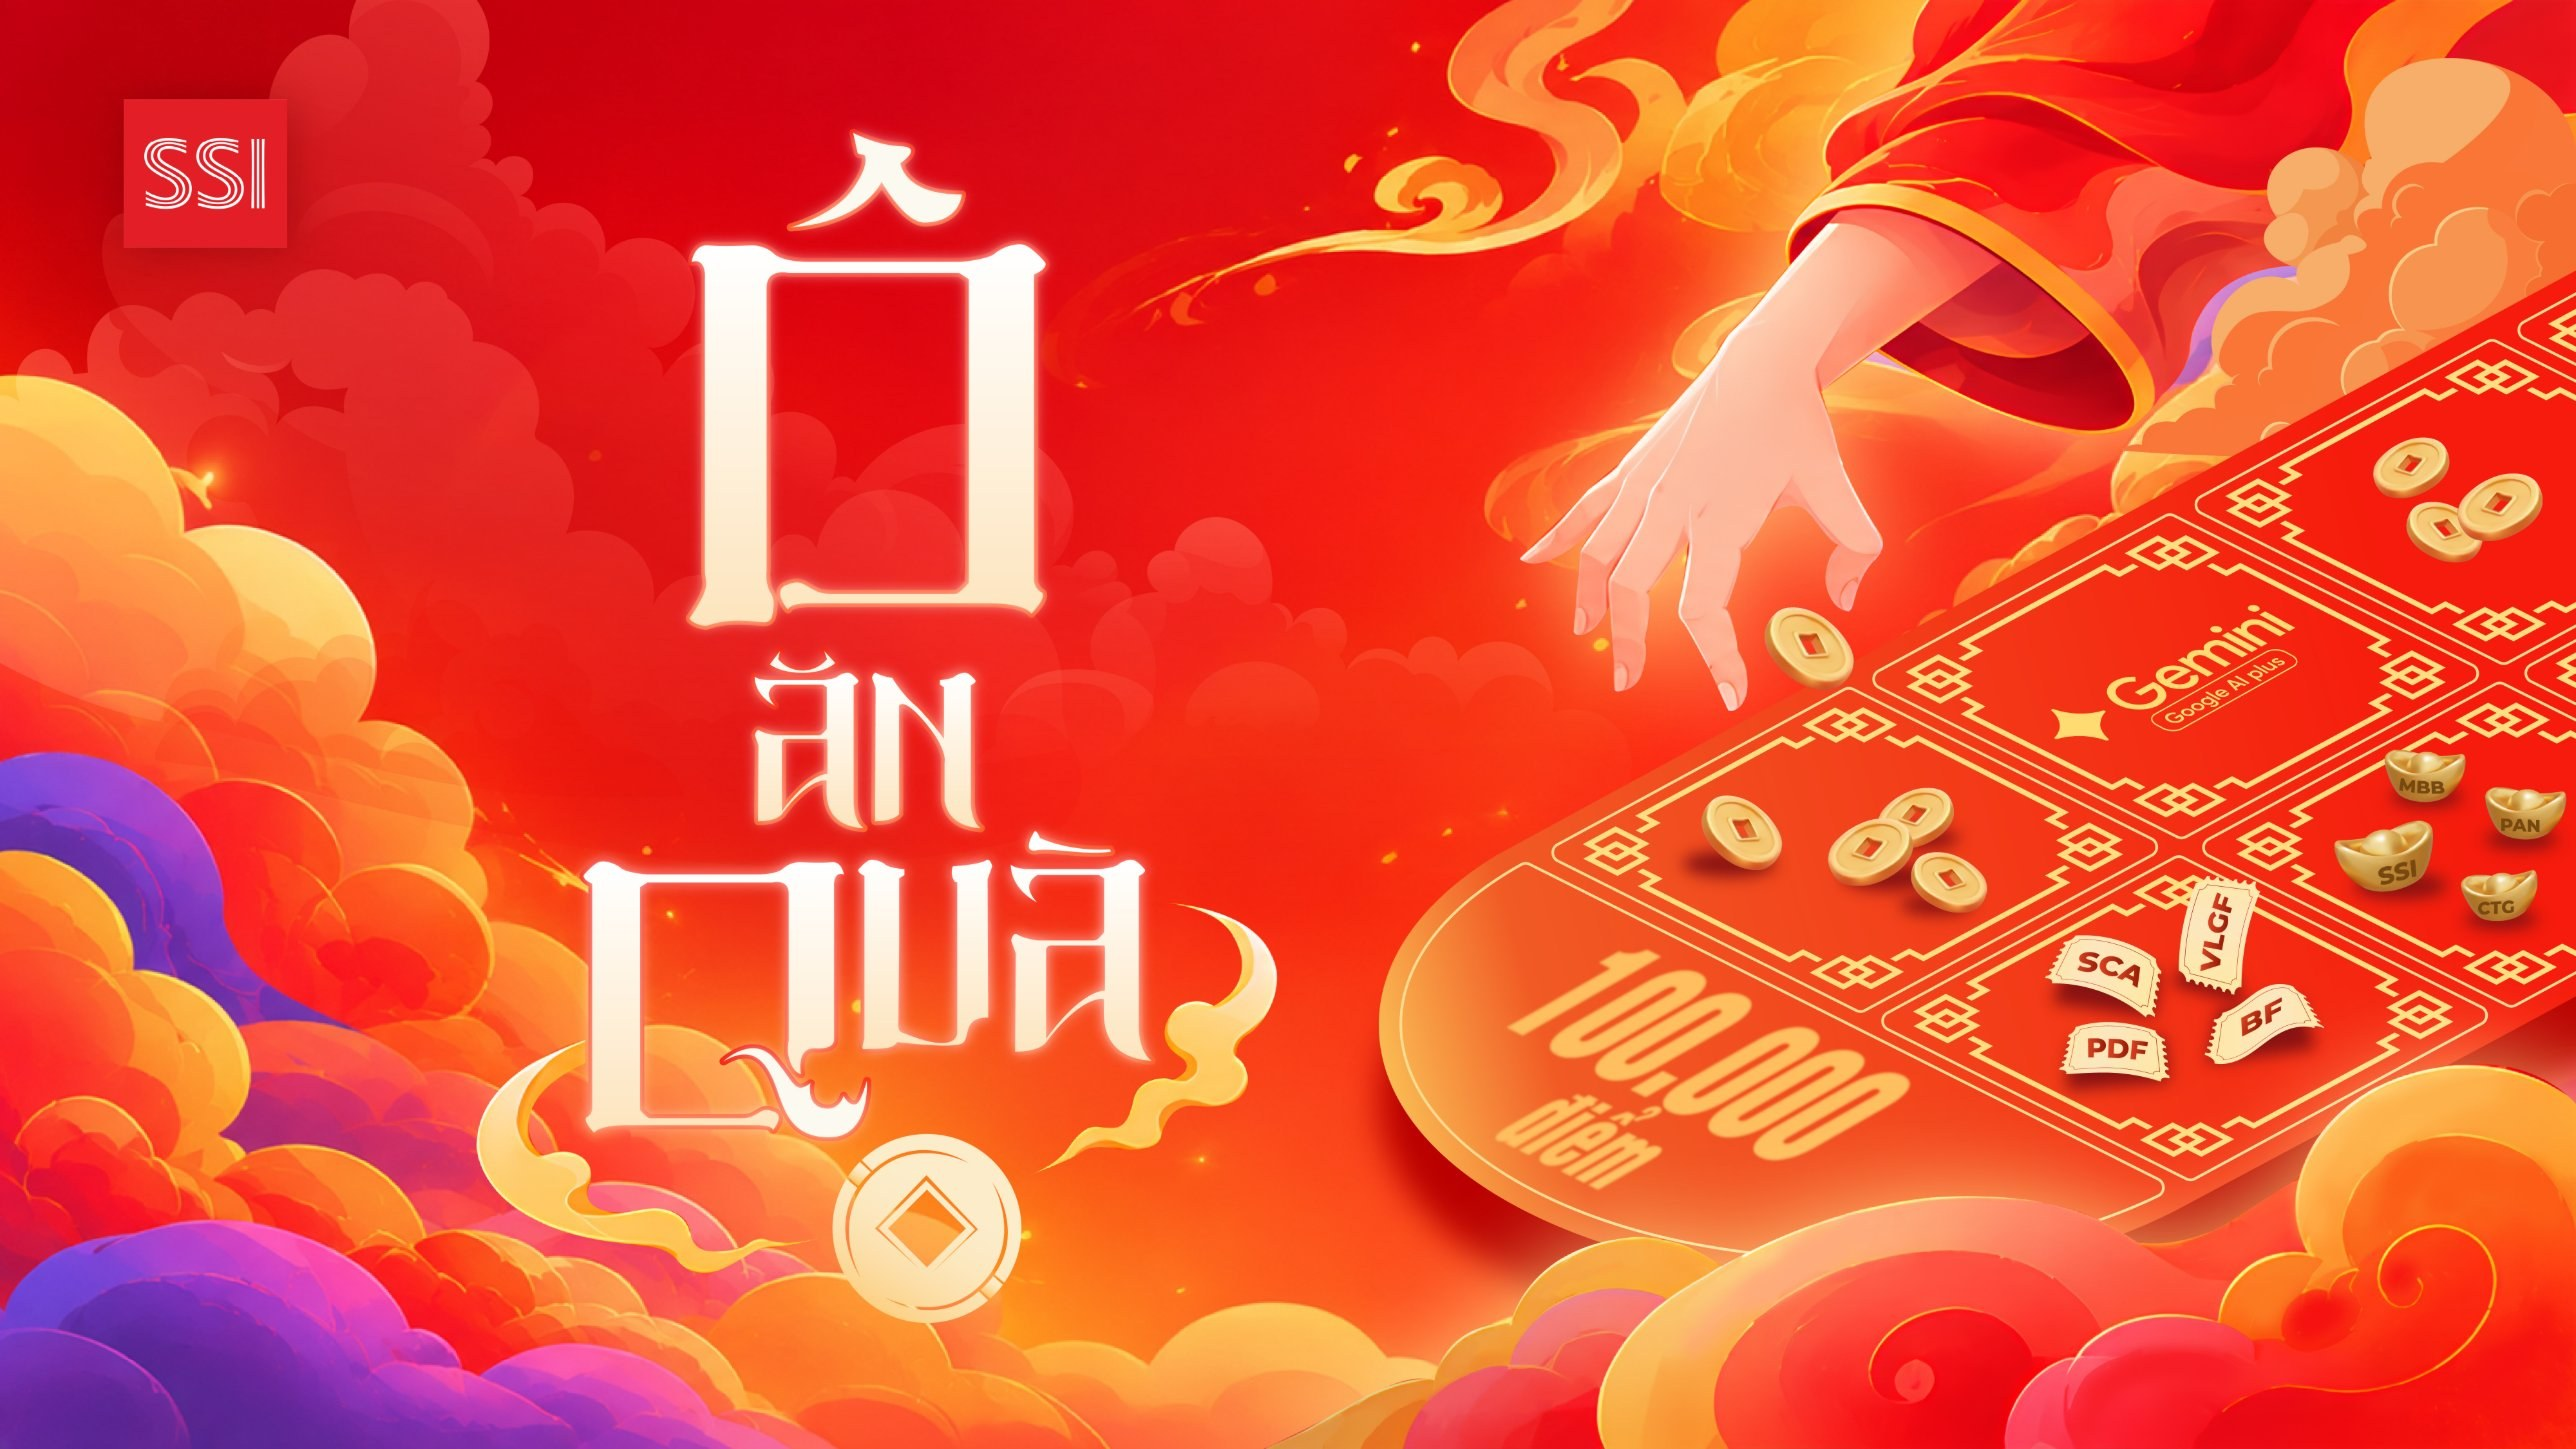
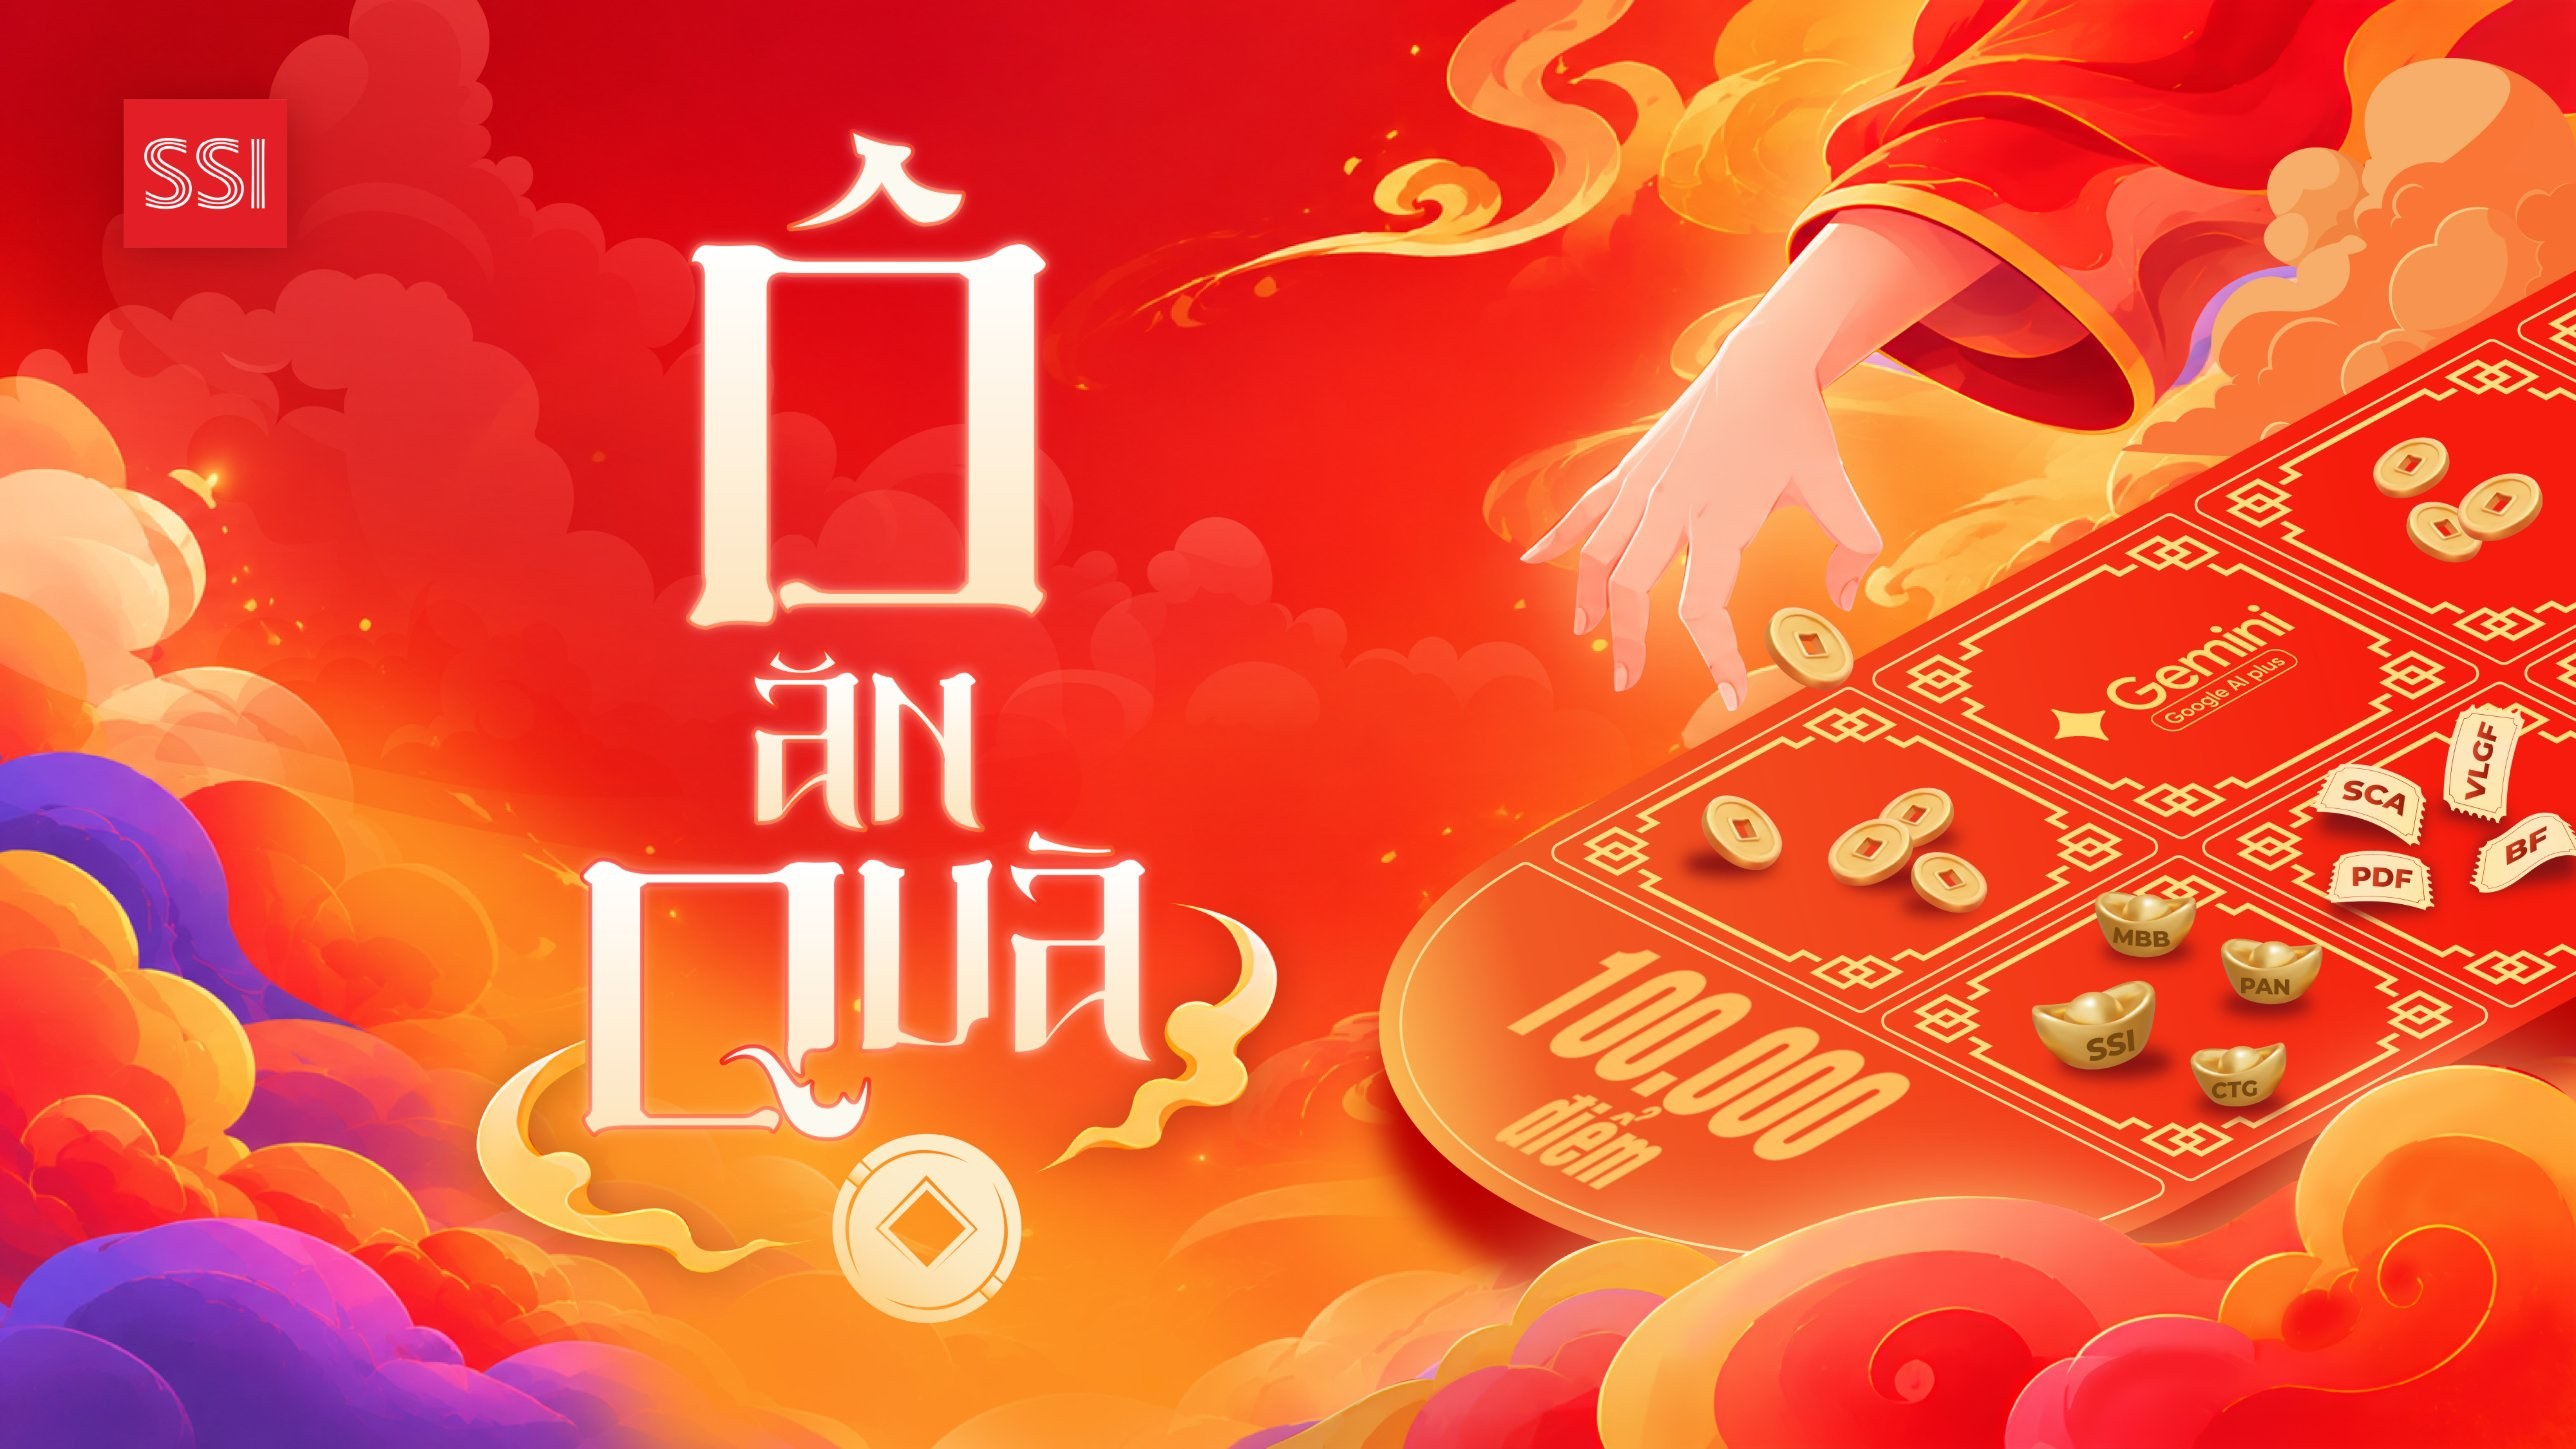
Add files via upload

diff --git a/index.html b/index.html
@@ -181,7 +181,7 @@ Quay lại
 <svg aria-hidden="true" width="18" height="18" viewBox="0 0 24 24" fill="none" stroke="currentColor" stroke-width="2.2" stroke-linecap="round" stroke-linejoin="round"><circle cx="12" cy="12" r="9"></circle><path d="M9.5 9.5a2.5 2.5 0 1 1 3.5 2.3c-.7.4-1 .9-1 1.7"></path><path d="M12 17h.01"></path></svg>
 Thể lệ
 </button>
-<a class="btn btn-gold" href="https://www.ssi.com.vn" style="min-height: 44px; padding: 0 20px; font-size: 15px; box-shadow: none">Mở tài khoản</a>
+<a class="btn btn-gold" href="https://ssi-iboard-pro.go.link/ssi-website-motaikhoan" style="min-height: 44px; padding: 0 20px; font-size: 15px; box-shadow: none">Mở tài khoản</a>
 </div>
 </div>
 
@@ -243,7 +243,7 @@ Thể lệ
 <div class="if" data-if="card.isFuture" hidden>
 <div style="align-self: stretch; padding: 12px 14px; border-radius: 14px; background: #FFE2A6; color: #6B0B10; font-size: 14px; font-weight: 700"><span data-bind="card.lockNote"></span></div>
 </div>
-<div style="font-size: 15px; font-weight: 600; color: #3D0A0D; min-height: 28px">Chưa có tài khoản? <a href="https://www.ssi.com.vn" style="color: #D5181B; font-size: 16px; font-weight: 900; text-decoration: underline">Mở để chơi</a></div>
+<div style="font-size: 15px; font-weight: 600; color: #3D0A0D; min-height: 28px">Chưa có tài khoản? <a href="https://ssi-iboard-pro.go.link/ssi-website-motaikhoan" style="color: #D5181B; font-size: 16px; font-weight: 700; text-decoration: underline">Mở để chơi</a></div>
 </div>
 </div>
 <div class="if" data-if="isQuanCard" hidden>
@@ -273,7 +273,7 @@ Thể lệ
 <div class="if" data-if="card.isFuture" hidden>
 <div style="position: relative; align-self: stretch; padding: 12px 14px; border-radius: 14px; background: rgba(40, 0, 4, 0.55); color: #FFE08A; font-size: 14px; font-weight: 700"><span data-bind="card.lockNote"></span></div>
 </div>
-<div style="position: relative; font-size: 15px; font-weight: 600; color: #FFF1D0; min-height: 28px">Chưa có tài khoản? <a href="https://www.ssi.com.vn" style="color: #FFE08A; font-weight: 800; text-decoration: underline">Mở để chơi</a></div>
+<div style="position: relative; font-size: 15px; font-weight: 600; color: #FFF1D0; min-height: 28px">Chưa có tài khoản? <a href="https://ssi-iboard-pro.go.link/ssi-website-motaikhoan" style="color: #FFE08A; font-weight: 700; text-decoration: underline">Mở để chơi</a></div>
 </div>
 </div>
 </div>
